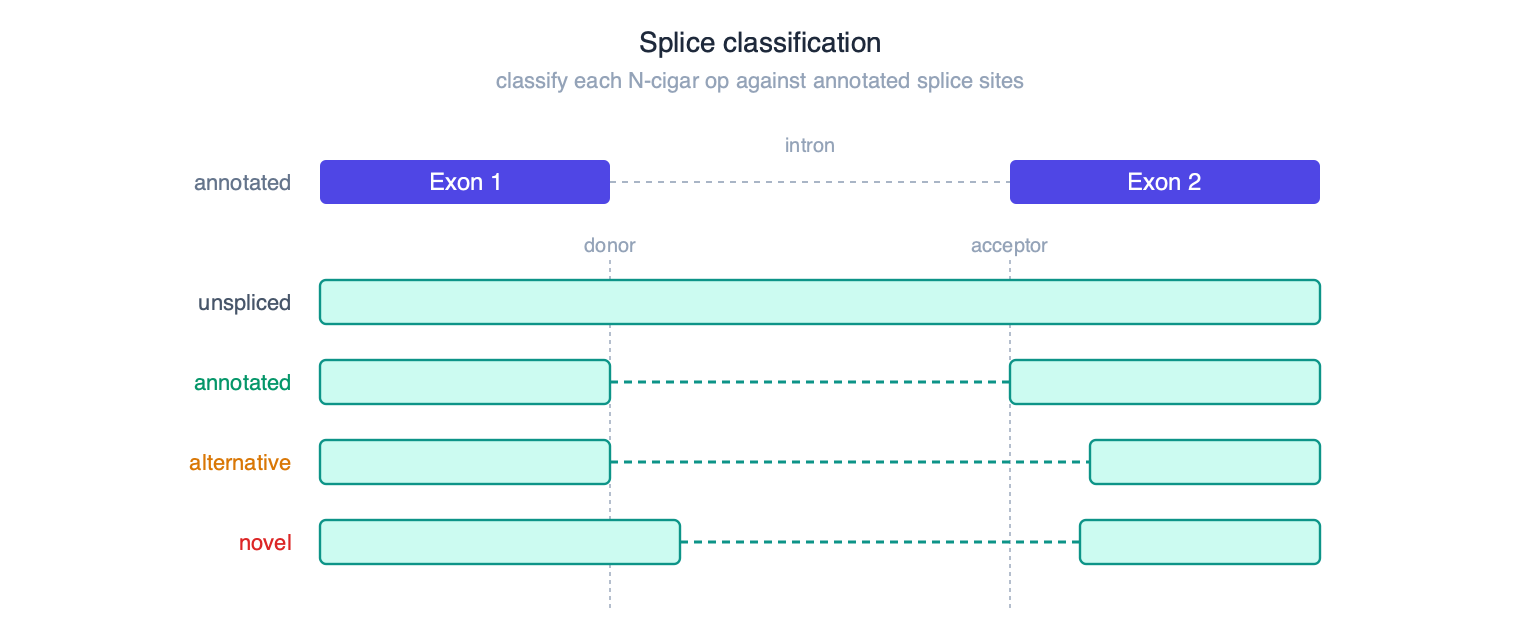
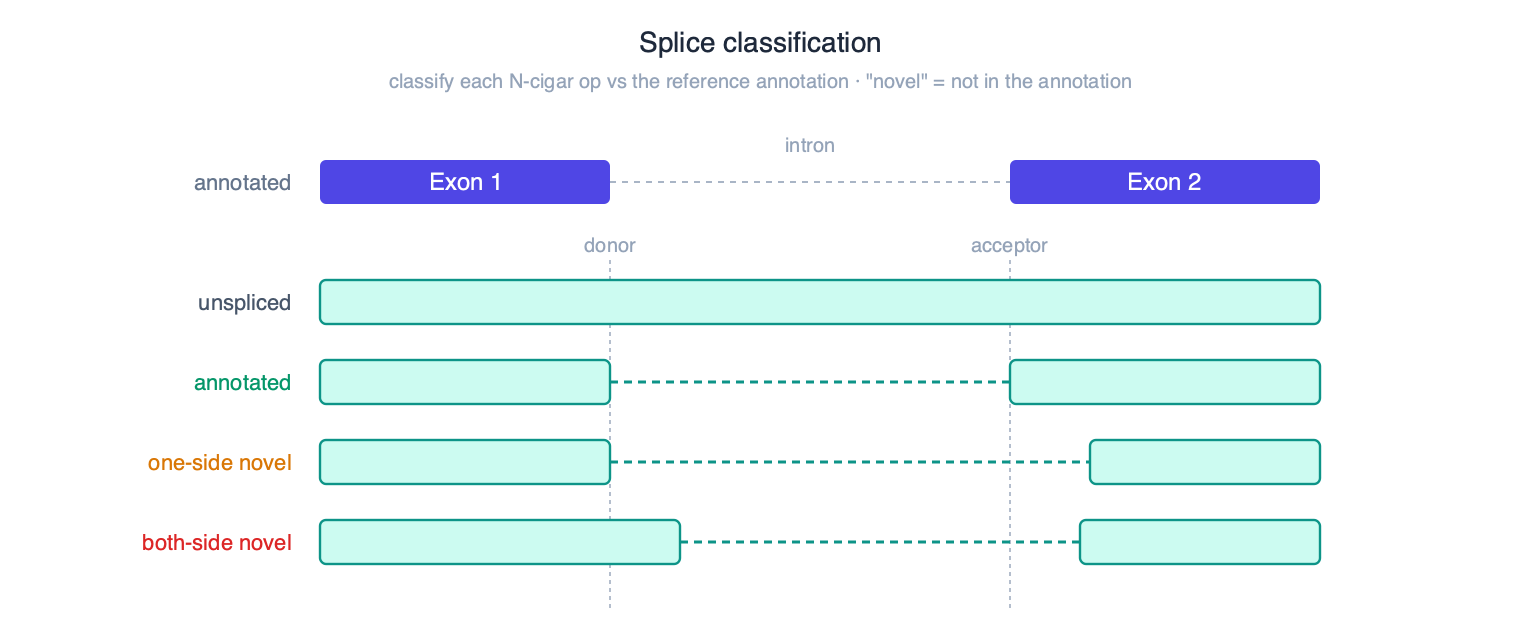
docs(splice): relabel classes to one-side/both-side novel + dark figure
A4: align splice-classification terminology with the literature. README
class table + step-(c) prose and docs/ARCHITECTURE.md now lead with
'one-side novel'/'both-side novel' (output labels alternative/novel kept,
mapping documented) plus the 'novel = not in the annotation, not
never-observed; basic vs comprehensive' caveat. Regenerated the dark
splice_classification figure to match the relabeled light variant.
Internal/output labels intentionally unchanged (non-breaking).

Claude-Session: https://claude.ai/code/session_01JKdd2cfQz7EXbPxuRf2cAK

Changed region(s): [[0.2474, 0.0938, 0.7421, 0.1562], [0.0928, 0.6875, 0.1855, 0.75], [0.0928, 0.8125, 0.1546, 0.875]]

diff --git a/docs/figures/generate_splice_classification_v3.py b/docs/figures/generate_splice_classification_v3.py
@@ -92,8 +92,8 @@ def build():
     out.append(text(FIG_W/2, 26, "Splice classification",
                     size=14, color=PAL["title"], weight="700", anchor="middle"))
     out.append(text(FIG_W/2, 44,
-                    "classify each N-cigar op against annotated splice sites",
-                    size=11, color=PAL["muted"], anchor="middle"))
+                    "classify each N-cigar op vs the reference annotation · \"novel\" = not in the annotation",
+                    size=10, color=PAL["muted"], anchor="middle"))
 
     # Annotated reference layout — two annotated splice sites at fixed x
     # Exon 1 ends at donor_x; Exon 2 starts at acceptor_x
@@ -150,7 +150,7 @@ def build():
     # donor matches annotation, acceptor is 30 px to the right
     y3 = 220
     alt_acceptor = acceptor_x + 40
-    out.append(read_row(y3, "alternative", PAL["orange"],
+    out.append(read_row(y3, "one-side novel", PAL["orange"],
                         n_ops=[(donor_x, alt_acceptor)],
                         aligned_spans=[(160, donor_x), (alt_acceptor, 660)]))
 
@@ -158,7 +158,7 @@ def build():
     y4 = 260
     nov_donor = donor_x + 35
     nov_acceptor = acceptor_x + 35
-    out.append(read_row(y4, "novel", PAL["red"],
+    out.append(read_row(y4, "both-side novel", PAL["red"],
                         n_ops=[(nov_donor, nov_acceptor)],
                         aligned_spans=[(160, nov_donor), (nov_acceptor, 660)]))
 

diff --git a/README.md b/README.md
@@ -81,12 +81,18 @@ Long reads spanning splice junctions often carry soft-clipped 5' bases that matc
 #### Introns — splice junction refinement and classification
 Each N-cigar op is refined against the **junction pool** (annotated + observed-across-aligners) with homopolymer-aware scoring, then classified per read:
 
-| Class            | Condition                                                                  |
-|---               |---                                                                         |
-| `unspliced`      | Read spans an intron but has no N-cigar op                                 |
-| `annotated`      | Every N-op matches an annotated donor + acceptor exactly                   |
-| `alternative`    | One end of an N-op matches an annotated site, the other does not          |
-| `novel`          | Neither end of any N-op matches any annotated site                         |
+| Class (output label)                | Condition                                                       |
+|---                                  |---                                                              |
+| `unspliced`                         | Read spans an intron but has no N-cigar op                      |
+| `annotated`                         | Every N-op matches an annotated donor + acceptor exactly        |
+| one-side novel (output `alternative`) | One end of an N-op matches an annotated site, the other does not (a novel donor *or* acceptor) |
+| both-side novel (output `novel`)    | Neither end of any N-op matches any annotated site              |
+
+Here **"novel" means "not in the annotation"** — *not* "never observed before." A
+junction absent from a given GENCODE *basic* build is often catalogued elsewhere
+(recount3/intropolis) or present in the *comprehensive* set. The output TSV keeps the
+short labels `alternative`/`novel`; the figure and prose use the more standard
+*one-side novel* / *both-side novel* (see `docs/ARCHITECTURE.md` for the mapping).
 
 <p align="center">
   <img src="docs/figures/splice_classification.png#gh-light-mode-only" alt="Splice classification" width="620">
@@ -140,7 +146,7 @@ A valley-based adaptive clustering algorithm groups nearby corrected 5' ends (TS
 </p>
 
 ### Splice junction analysis
-Per-read splice classifications from step (c) are aggregated into per-junction tables: annotated/alternative/novel counts and junction-shift frequencies. The `alternative`/`novel` fraction is the readout for the NMD-AS isoform audit (surveillance-mutant studies where unproductive transcripts accumulate).
+Per-read splice classifications from step (c) are aggregated into per-junction tables: annotated / one-side-novel / both-side-novel counts (output labels `annotated`/`alternative`/`novel`) and junction-shift frequencies. The novel (one-side + both-side) fraction is the readout for the NMD-AS isoform audit (surveillance-mutant studies where unproductive transcripts accumulate).
 
 ### Isoform characterization (ONT cDNA only)
 `rectify cdna-analyze` uses the matched 5' + 3' coordinates available from full-length cDNA reads to assemble per-read isoforms. Type-1 reads (full-length, UMI captured) cluster by both TSS and CPA; Type-2 reads (truncated, no UMI) cluster by CPA only. 5' and 3' end variation within each cluster is bounded by a configurable window (default ±5 bp). Same-molecule Type-1 ↔ Type-2 cluster pairs are linked by gene + 3' end proximity, recovering deep coverage that would otherwise be discarded as random truncation noise.

diff --git a/docs/ARCHITECTURE.md b/docs/ARCHITECTURE.md
@@ -1120,6 +1120,16 @@ through a sequential decision tree:
 | `alternative` | At least one N-op shares a donor OR acceptor with an annotated intron (alt-5'SS, alt-3'SS, exon skipping) |
 | `novel` | At least one N-op has neither end matching any annotated splice site |
 
+**Terminology mapping (output label → literature term).** The output TSV keeps the
+short labels above; the README, figures, and the Sumner chr5 summary use the more
+standard names: `alternative` → **one-side novel** (a novel donor *or* acceptor),
+`novel` → **both-side novel**. In all cases **"novel" means "not in the loaded
+annotation"** — *not* "never observed anywhere." A junction missing from a GENCODE
+*basic* build may be present in the *comprehensive* set or catalogued in
+recount3/intropolis. The short labels are retained as the canonical output values to
+avoid breaking downstream consumers; renaming them is tracked as a deferred decision
+in `dev/TODO.md`.
+
 Other analysis modules: `junction_analysis.py` (splice stats),
 `junction_validation.py` (annotation-based validation), `heatmap.py`
 (cluster usage heatmaps), `pca.py` (PCA of count matrix), `summary.py`
